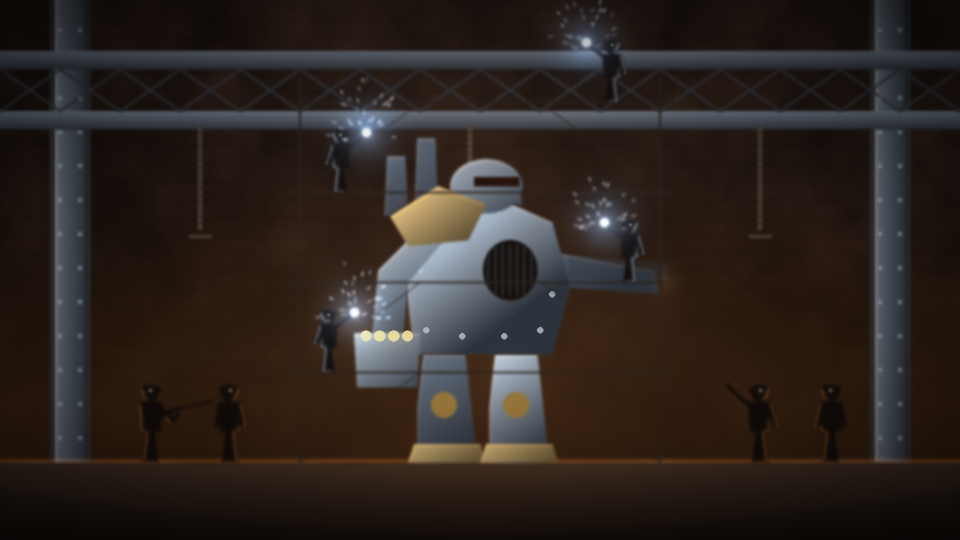
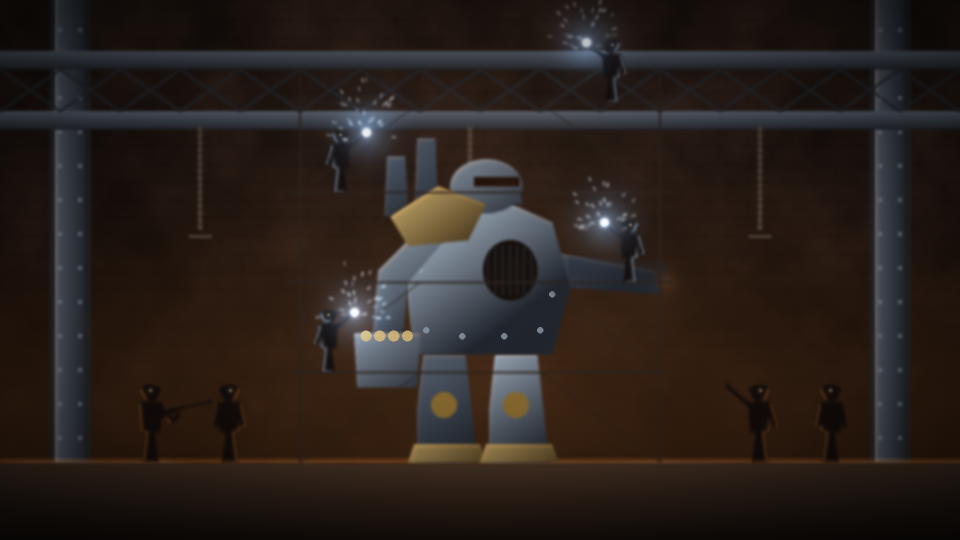
WIP 2.58 : jets de vapeur annoncés plus tôt, tableaux de l'histoire moins éblouis
Claude-Session: https://claude.ai/code/session_01QqM7amBZEc2xH65DxoKFa4

Changed region(s): [[0.3438, 0.2963, 0.5938, 0.7111], [0.5, 0.6519, 0.5625, 0.8593], [0.4062, 0.8, 0.4688, 0.8593]]

diff --git a/tools/assetgen/environment/story_titan.py b/tools/assetgen/environment/story_titan.py
@@ -16,8 +16,8 @@ from story_pyrrhax import collapsed_star
 FIRE = "#ff8a2e"      # the furnaces, molten steel
 FIRE_HOT = "#ffe6b0"
 AMBER = "#ffc23c"     # the Titan's light (its first phase)
-STEEL = {"hi": "#b6c2ce", "mid": "#66717f", "dark": "#2c323b"}
-BRASS = {"hi": "#f4dc98", "mid": "#98773a", "dark": "#3c2a14"}
+STEEL = {"hi": "#8e9aa8", "mid": "#525c6a", "dark": "#20252d"}
+BRASS = {"hi": "#cdb070", "mid": "#86682e", "dark": "#34240f"}
 RUST = "#8a4a22"
 
 
@@ -272,7 +272,7 @@ def shot1():
                                (380, 1.7, "carry", False), (880, 1.6, "stand", True)):
         worker(c, wx, 456, ws, pose, flip=fl)
     smoke(c, 5805, 820, 300, 200, 60, "#5a4a40", 0.35)
-    return finish(c, bloom=0.6, vignette=0.55)
+    return finish(c, bloom=0.45, threshold=0.7, vignette=0.55)
 
 
 def shot2():
@@ -290,7 +290,7 @@ def shot2():
         sparks(c, 5813 + wx, 30, ax, ay + 8, 40, "#d8eeff", 0.8)
     for (wx, pose, fl) in ((150, "carry", False), (230, "stand", True), (760, "point", True), (830, "stand", False)):
         worker(c, wx, 462, 2.0, pose, flip=fl)
-    return finish(c, bloom=0.6, vignette=0.55)
+    return finish(c, bloom=0.45, threshold=0.7, vignette=0.55)
 
 
 def _sky_star(c):
@@ -330,7 +330,7 @@ def shot3():
     c.over("#2a221c", lad.get(0.5), 0.95)
     for (t, s) in ((0.35, 1.5), (0.6, 1.3), (0.85, 1.1)):
         worker(c, 262 + 40 * t, 462 - 312 * t, s, "stand", light="#c8a8ff", k=0.5)
-    return finish(c, bloom=0.6, vignette=0.55)
+    return finish(c, bloom=0.45, threshold=0.7, vignette=0.55)
 
 
 def shot4():
@@ -354,7 +354,7 @@ def shot4():
     core, visor, _ = titan(c, 450, 462, 2.4, light=(0.9, -0.4), glow=AMBER, visor=0.9, reactor=0.8, k=1.1, rust=0.25, seed=5837)
     sparks(c, 5839, 70, 640, 400, 80, k=0.9)
     smoke(c, 5841, 700, 300, 220, 70, "#4a3e36", 0.4)
-    return finish(c, bloom=0.6, vignette=0.6)
+    return finish(c, bloom=0.45, threshold=0.7, vignette=0.6)
 
 
 def shot5():
@@ -370,7 +370,7 @@ def shot5():
     smoke(c, 5857, 640, 300, 200, 60, "#c8c4c0", 0.3)
     sparks(c, 5859, 90, 360, 300, 70, k=1.0)
     sparks(c, 5861, 60, 600, 380, 60, k=0.8)
-    return finish(c, bloom=0.65, vignette=0.6)
+    return finish(c, bloom=0.5, threshold=0.7, vignette=0.6)
 
 
 def shot6():
@@ -386,7 +386,7 @@ def shot6():
     c.rays(visor[0], visor[1], 8, 160, 10, AMBER, 0.1, 5875, soft=8)
     smoke(c, 5877, 400, 160, 160, 50, "#5a4a40", 0.35)
     sparks(c, 5879, 60, 480, 466, 300, k=0.6, up=20)
-    return finish(c, bloom=0.62, vignette=0.6)
+    return finish(c, bloom=0.48, threshold=0.7, vignette=0.6)
 
 
 SHOTS = [shot1, shot2, shot3, shot4, shot5, shot6]

diff --git a/game/enemies/TitanAttacks.cpp b/game/enemies/TitanAttacks.cpp
@@ -202,7 +202,7 @@ void Enemy::beginVent(GameWorld& w) {
         s.dir = dir;
         s.length = 150.0f;
         s.height = 30.0f;
-        s.warn = 0.35f;
+        s.warn = 0.5f;  // it hisses first (puffs at its feet)
         s.time = kVentJets - s.warn;
         s.damage = 1.0f;
         s.knockback = 260.0f;
@@ -401,7 +401,7 @@ void Enemy::planPresses(GameWorld& w) {
         std::vector<int> round;
         for (int k = 0; k < n; ++k)
             if (k != safe && !overMe(k)) round.push_back(k);
-        round.push_back(-1 - std::max(0, safe));  // the spared one, encoded (-1 - index)
+        if (safe >= 0) round.push_back(-1 - safe);  // the spared one, encoded (-1 - index)
         pressRounds_.push_back(round);
     } else if (a.arms == 3) {
         // A march from its side across the arena: one round, in order.
